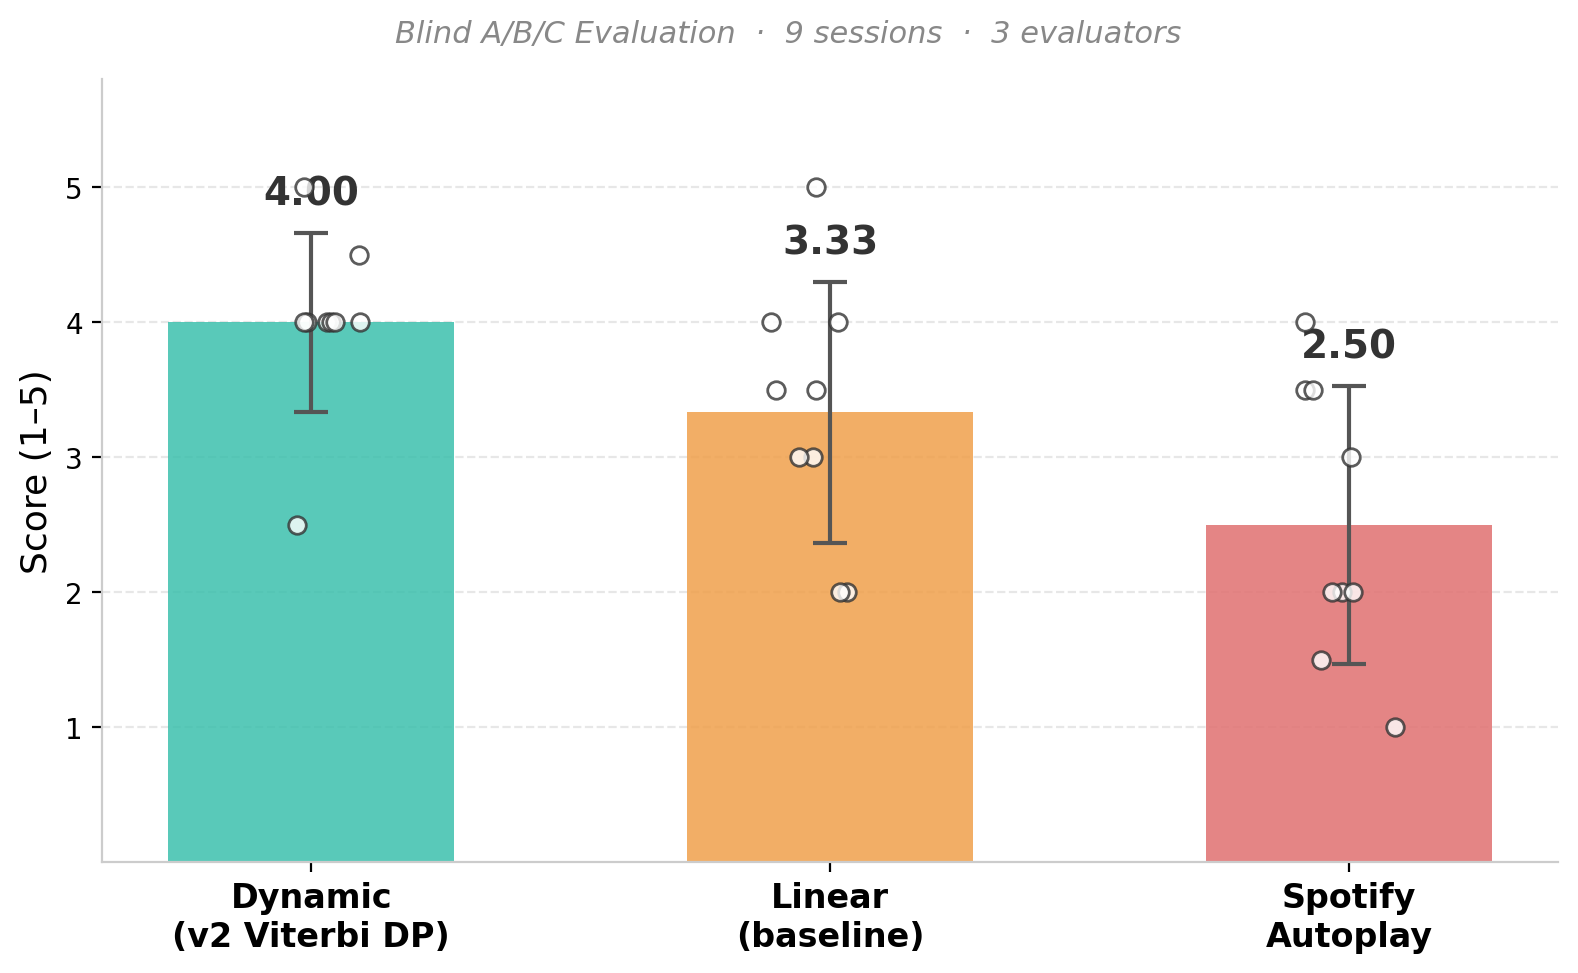
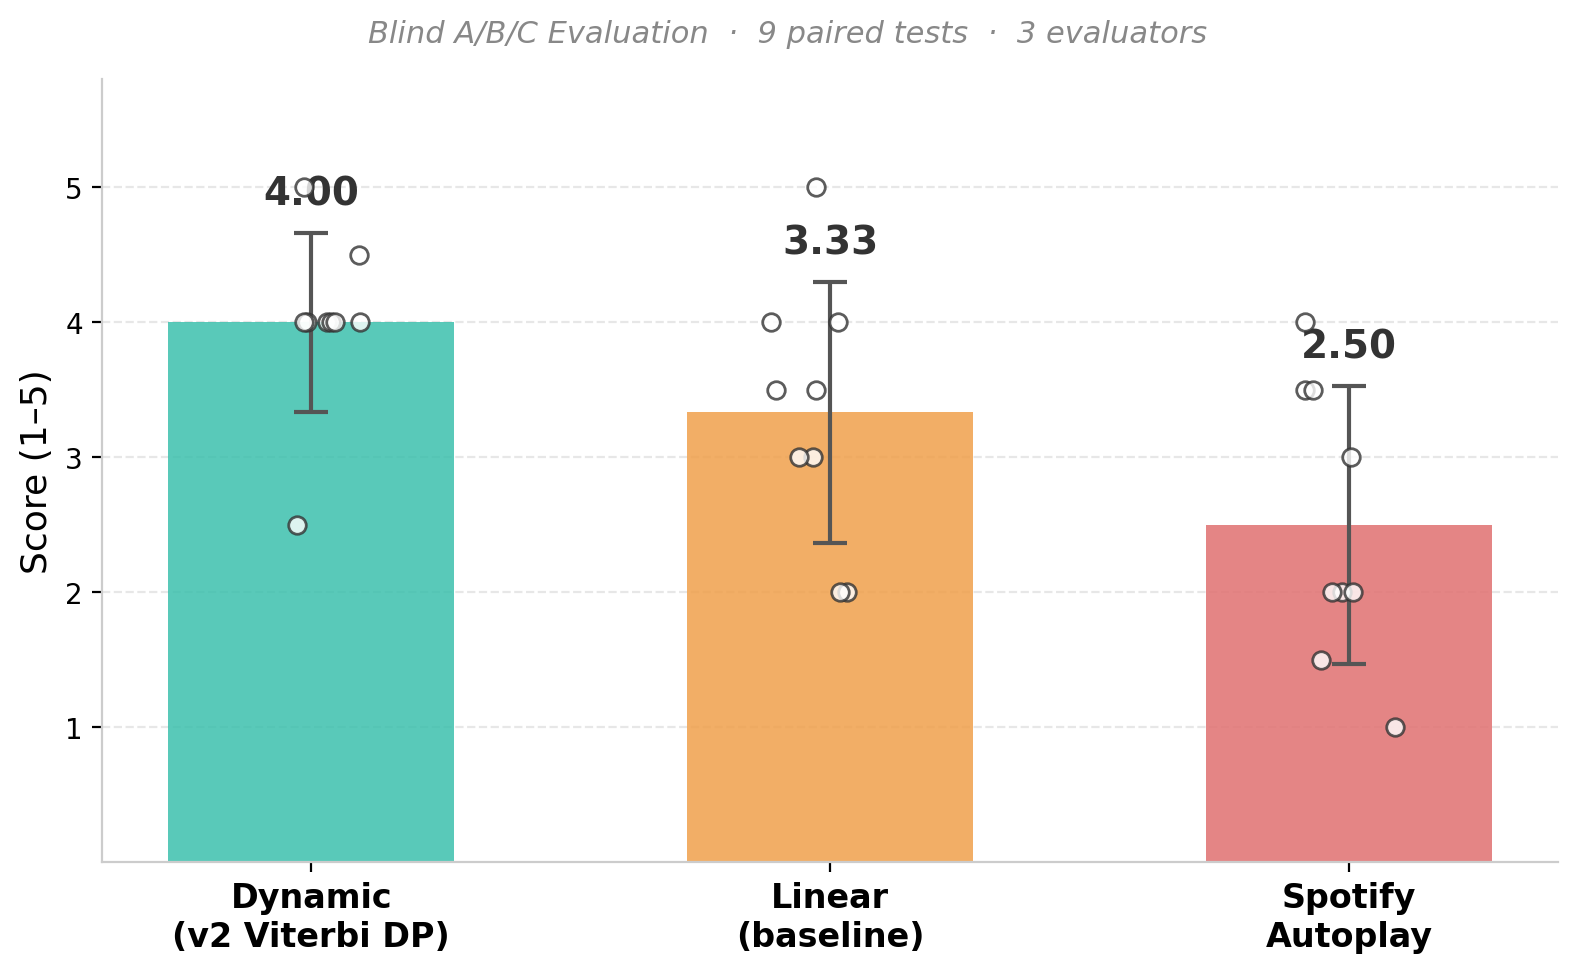
paired comparison: per-test_id analysis with winner stars and difference chart

Changed region(s): [[0.2174, 0.0, 0.4658, 0.0617], [0.4968, 0.0, 0.7763, 0.0617]]

diff --git a/scripts/analyze_eval.py b/scripts/analyze_eval.py
@@ -1,4 +1,7 @@
-"""Analyze A/B/C blind evaluation results: Dynamic vs Linear vs Auto."""
+"""Analyze A/B/C blind evaluation results: Dynamic vs Linear vs Auto.
+
+Paired comparison within each test_id (same evaluator, same transition).
+"""
 
 import matplotlib
 matplotlib.use("Agg")
@@ -6,6 +9,7 @@ import matplotlib.pyplot as plt
 import numpy as np
 import pandas as pd
 from scipy import stats
+from matplotlib.patches import Patch
 
 # ── Load data ──
 df = pd.read_csv("/home/ubuntu/eval_data.csv")
@@ -20,108 +24,167 @@ df["Score"] = pd.to_numeric(df["Score"])
 name_map = {n: f"Evaluator {chr(65+i)}" for i, n in enumerate(sorted(df["Name"].unique()))}
 df["Name"] = df["Name"].map(name_map)
 
-print("=" * 60)
-print("BLIND A/B/C EVALUATION RESULTS")
-print("=" * 60)
-print(f"\nTotal evaluations: {len(df)} ({len(df)//3} test sessions × 3 methods)")
-print(f"Evaluators: {', '.join(df['Name'].unique())}")
-print(f"Emotion transitions tested: {df.groupby(['From','To']).ngroups}")
+OUT = "/home/ubuntu/repos/jsai2026/eval/llm_feature_eval/outputs"
+method_order = ["Dynamic", "Linear", "Auto"]
+colors = {"Dynamic": "#3cc0ad", "Linear": "#f0a04b", "Auto": "#e07070"}
+
+# ── Build paired comparison table ──
+test_ids = sorted(df["test_id"].unique())
+n_tests = len(test_ids)
+
+rows = []
+for tid in test_ids:
+    td = df[df["test_id"] == tid]
+    name = td["Name"].iloc[0]
+    fr = td["From"].iloc[0]
+    to = td["To"].iloc[0]
+    n = int(td["N"].iloc[0])
+    s = {m: td[td["Method"] == m]["Score"].values[0] for m in method_order}
+    # Winner for this test
+    best_score = max(s.values())
+    winners = [m for m, v in s.items() if v == best_score]
+    rows.append({
+        "test_id": tid, "Name": name, "From": fr, "To": to, "N": n,
+        "Dynamic": s["Dynamic"], "Linear": s["Linear"], "Auto": s["Auto"],
+        "Winner": "/".join(winners),
+    })
+paired_df = pd.DataFrame(rows)
+
+print("=" * 70)
+print("PAIRED COMPARISON (within each test_id)")
+print("=" * 70)
+print()
+print(paired_df.to_string(index=False))
 print()
 
+# ── Win counts ──
+print("Winner counts:")
+print("-" * 40)
+for m in method_order:
+    wins = sum(1 for _, r in paired_df.iterrows() if r["Winner"] == m)
+    shared = sum(1 for _, r in paired_df.iterrows() if m in r["Winner"] and r["Winner"] != m)
+    print(f"  {m:8s}: {wins} solo wins, {shared} shared wins")
+
+# ── Rank within each test ──
+print("\nRank distribution (1=best, 3=worst):")
+print("-" * 40)
+rank_counts = {m: {1: 0, 2: 0, 3: 0} for m in method_order}
+for _, r in paired_df.iterrows():
+    scores = [(r[m], m) for m in method_order]
+    scores.sort(key=lambda x: -x[0])
+    prev_score = None
+    prev_rank = 0
+    for i, (sc, meth) in enumerate(scores):
+        if sc != prev_score:
+            rank = i + 1
+        rank_counts[meth][rank] += 1
+        prev_score = sc
+        prev_rank = rank
+
+for m in method_order:
+    r = rank_counts[m]
+    print(f"  {m:8s}: 1st={r[1]}, 2nd={r[2]}, 3rd={r[3]}")
+
 # ── Overall averages ──
-method_stats = df.groupby("Method")["Score"].agg(["mean", "std", "count", "median"])
-method_stats = method_stats.sort_values("mean", ascending=False)
-print("Overall Method Averages (sorted by mean):")
-print("-" * 50)
-for method, row in method_stats.iterrows():
-    print(f"  {method:8s}  mean={row['mean']:.3f}  std={row['std']:.3f}  "
-          f"median={row['median']:.1f}  n={int(row['count'])}")
+print("\nOverall averages:")
+print("-" * 40)
+for m in method_order:
+    vals = paired_df[m].values
+    print(f"  {m:8s}: mean={vals.mean():.3f}, std={vals.std():.3f}, median={np.median(vals):.1f}")
 
-# ── Per evaluator ──
-print("\nPer-Evaluator Breakdown:")
-print("-" * 50)
-pivot_eval = df.pivot_table(values="Score", index="Name", columns="Method", aggfunc="mean")
-print(pivot_eval.round(3).to_string())
-
-# ── Per test (wide format) ──
-print("\nPer-Test Scores:")
-print("-" * 50)
-pivot_test = df.pivot_table(values="Score", index=["test_id", "Name", "From", "To", "N"],
-                            columns="Method", aggfunc="first")
-print(pivot_test.to_string())
-
-# ── Win/tie/lose counts ──
-print("\nHead-to-Head Comparison (Dynamic vs others):")
-print("-" * 50)
-for other in ["Linear", "Auto"]:
-    wins = ties = losses = 0
-    for tid in df["test_id"].unique():
-        d_score = df[(df["test_id"] == tid) & (df["Method"] == "Dynamic")]["Score"].values[0]
-        o_score = df[(df["test_id"] == tid) & (df["Method"] == other)]["Score"].values[0]
-        if d_score > o_score:
-            wins += 1
-        elif d_score == o_score:
-            ties += 1
-        else:
-            losses += 1
-    print(f"  Dynamic vs {other:6s}: {wins}W / {ties}T / {losses}L")
-
-# ── Statistical tests ──
-print("\nStatistical Tests (Wilcoxon signed-rank, paired):")
-print("-" * 50)
-methods = ["Dynamic", "Linear", "Auto"]
-for i in range(len(methods)):
-    for j in range(i + 1, len(methods)):
-        m1, m2 = methods[i], methods[j]
-        scores1, scores2 = [], []
-        for tid in sorted(df["test_id"].unique()):
-            s1 = df[(df["test_id"] == tid) & (df["Method"] == m1)]["Score"].values[0]
-            s2 = df[(df["test_id"] == tid) & (df["Method"] == m2)]["Score"].values[0]
-            scores1.append(s1)
-            scores2.append(s2)
-        diffs = [a - b for a, b in zip(scores1, scores2)]
-        nonzero_diffs = [d for d in diffs if d != 0]
-        if len(nonzero_diffs) >= 2:
-            stat, p = stats.wilcoxon(scores1, scores2, alternative="two-sided")
+# ── Statistical tests (paired) ──
+print("\nStatistical Tests (Wilcoxon signed-rank, paired by test_id):")
+print("-" * 60)
+for i in range(len(method_order)):
+    for j in range(i + 1, len(method_order)):
+        m1, m2 = method_order[i], method_order[j]
+        s1 = paired_df[m1].values
+        s2 = paired_df[m2].values
+        diffs = s1 - s2
+        nonzero = np.sum(diffs != 0)
+        if nonzero >= 2:
+            stat, p = stats.wilcoxon(s1, s2, alternative="two-sided")
             sig = "***" if p < 0.01 else "**" if p < 0.05 else "*" if p < 0.1 else "n.s."
-            print(f"  {m1} vs {m2}: W={stat:.1f}, p={p:.4f} {sig}  (mean diff={np.mean(diffs):+.3f})")
+            print(f"  {m1} vs {m2}: W={stat:.1f}, p={p:.4f} {sig}  "
+                  f"(mean diff={diffs.mean():+.3f}, median diff={np.median(diffs):+.1f})")
         else:
-            print(f"  {m1} vs {m2}: too few non-tied pairs ({len(nonzero_diffs)})")
+            print(f"  {m1} vs {m2}: too few non-tied pairs ({nonzero})")
 
 # ═══════════════════════════════════════════════════════
 # VISUALIZATIONS
 # ═══════════════════════════════════════════════════════
-OUT = "/home/ubuntu/repos/jsai2026/eval/llm_feature_eval/outputs"
 
-colors = {"Dynamic": "#3cc0ad", "Linear": "#f0a04b", "Auto": "#e07070"}
+# ── Chart 1: Per-test grouped bars (primary chart) ──
+fig, ax = plt.subplots(figsize=(12, 5.5))
+fig.patch.set_facecolor("white")
+ax.set_facecolor("white")
 
-# ── Chart 1: Overall bar chart with individual dots ──
+bar_w = 0.25
+x_pos = np.arange(n_tests)
+
+for i, m in enumerate(method_order):
+    offset = (i - 1) * (bar_w + 0.02)
+    vals = paired_df[m].values
+    bars = ax.bar(x_pos + offset, vals, width=bar_w, color=colors[m],
+                  label=m, edgecolor="none", alpha=0.85)
+    for j, v in enumerate(vals):
+        ax.text(x_pos[j] + offset, v + 0.05, f"{v:.1f}",
+                ha="center", va="bottom", fontsize=8, fontweight="bold", color="#555555")
+
+# Mark winner(s) with a star
+for j, (_, r) in enumerate(paired_df.iterrows()):
+    best = max(r["Dynamic"], r["Linear"], r["Auto"])
+    for i, m in enumerate(method_order):
+        if r[m] == best:
+            offset = (i - 1) * (bar_w + 0.02)
+            ax.text(x_pos[j] + offset, r[m] + 0.25, "★",
+                    ha="center", va="bottom", fontsize=10, color="#d4a017")
+
+# X labels
+xlabels = [f"T{r['test_id']}\n{r['From']}→{r['To']}\n(N={r['N']})" for _, r in paired_df.iterrows()]
+ax.set_xticks(x_pos)
+ax.set_xticklabels(xlabels, fontsize=8, ha="center")
+ax.set_ylabel("Score (1–5)", fontsize=12)
+ax.set_ylim(0, 5.9)
+ax.set_yticks([1, 2, 3, 4, 5])
+ax.legend(fontsize=10, loc="upper right", frameon=True, edgecolor="#dddddd")
+ax.spines["top"].set_visible(False)
+ax.spines["right"].set_visible(False)
+ax.spines["left"].set_color("#cccccc")
+ax.spines["bottom"].set_color("#cccccc")
+ax.yaxis.grid(True, alpha=0.3, linestyle="--")
+ax.set_title("Paired Comparison: Same Evaluator × Same Transition  (★ = winner)",
+             fontsize=13, fontweight="bold", pad=12)
+plt.tight_layout()
+fig.savefig(f"{OUT}/eval_per_test.png", dpi=200, bbox_inches="tight", facecolor="white")
+print(f"\nSaved: {OUT}/eval_per_test.png")
+plt.close()
+
+# ── Chart 2: Overall bar chart with individual dots ──
 fig, ax = plt.subplots(figsize=(8, 5))
 fig.patch.set_facecolor("white")
 ax.set_facecolor("white")
 
-method_order = ["Dynamic", "Linear", "Auto"]
-means = [df[df["Method"] == m]["Score"].mean() for m in method_order]
-stds = [df[df["Method"] == m]["Score"].std() for m in method_order]
+means = [paired_df[m].mean() for m in method_order]
+stds_vals = [paired_df[m].std() for m in method_order]
 x_pos = np.arange(len(method_order))
 
 bars = ax.bar(x_pos, means, width=0.55, color=[colors[m] for m in method_order],
               edgecolor="none", alpha=0.85, zorder=2)
-ax.errorbar(x_pos, means, yerr=stds, fmt="none", ecolor="#555555",
+ax.errorbar(x_pos, means, yerr=stds_vals, fmt="none", ecolor="#555555",
             capsize=6, capthick=1.5, linewidth=1.5, zorder=3)
 
-# Scatter individual scores with jitter
+# Individual dots
 np.random.seed(42)
 for i, m in enumerate(method_order):
-    scores = df[df["Method"] == m]["Score"].values
+    scores = paired_df[m].values
     jitter = np.random.normal(0, 0.06, size=len(scores))
     ax.scatter(np.full_like(scores, i, dtype=float) + jitter, scores,
                color="white", edgecolors="#333333", linewidth=1, s=40,
                zorder=4, alpha=0.8)
 
-# Labels
 for i, (m, mean_val) in enumerate(zip(method_order, means)):
-    ax.text(i, mean_val + stds[i] + 0.15, f"{mean_val:.2f}",
+    ax.text(i, mean_val + stds_vals[i] + 0.15, f"{mean_val:.2f}",
             ha="center", va="bottom", fontsize=14, fontweight="bold", color="#333333")
 
 ax.set_xticks(x_pos)
@@ -136,14 +199,14 @@ ax.spines["left"].set_color("#cccccc")
 ax.spines["bottom"].set_color("#cccccc")
 ax.yaxis.grid(True, alpha=0.3, linestyle="--")
 fig.text(0.5, 0.97,
-         f"Blind A/B/C Evaluation  ·  {len(df)//3} sessions  ·  {len(df['Name'].unique())} evaluators",
+         f"Blind A/B/C Evaluation  ·  {n_tests} paired tests  ·  {len(df['Name'].unique())} evaluators",
          ha="center", va="top", fontsize=11, color="#888888", style="italic")
 plt.tight_layout(rect=[0, 0, 1, 0.94])
 fig.savefig(f"{OUT}/eval_method_comparison.png", dpi=200, bbox_inches="tight", facecolor="white")
-print(f"\nSaved: {OUT}/eval_method_comparison.png")
+print(f"Saved: {OUT}/eval_method_comparison.png")
 plt.close()
 
-# ── Chart 2: Per-evaluator grouped bar chart ──
+# ── Chart 3: Per-evaluator grouped bars ──
 fig, ax = plt.subplots(figsize=(9, 5))
 fig.patch.set_facecolor("white")
 ax.set_facecolor("white")
@@ -156,8 +219,8 @@ x_pos = np.arange(n_eval)
 for i, m in enumerate(method_order):
     vals = [df[(df["Name"] == e) & (df["Method"] == m)]["Score"].mean() for e in evaluators]
     offset = (i - 1) * (bar_w + 0.03)
-    bars = ax.bar(x_pos + offset, vals, width=bar_w, color=colors[m],
-                  label=m, edgecolor="none", alpha=0.85)
+    ax.bar(x_pos + offset, vals, width=bar_w, color=colors[m],
+           label=m, edgecolor="none", alpha=0.85)
     for j, v in enumerate(vals):
         ax.text(x_pos[j] + offset, v + 0.08, f"{v:.1f}",
                 ha="center", va="bottom", fontsize=10, fontweight="bold", color="#555555")
@@ -179,51 +242,49 @@ fig.savefig(f"{OUT}/eval_per_evaluator.png", dpi=200, bbox_inches="tight", facec
 print(f"Saved: {OUT}/eval_per_evaluator.png")
 plt.close()
 
-# ── Chart 3: Per-test heatmap-style comparison ──
-fig, ax = plt.subplots(figsize=(10, 5.5))
+# ── Chart 4: Paired difference chart (Dynamic - others) ──
+fig, axes = plt.subplots(1, 2, figsize=(10, 4.5), sharey=True)
 fig.patch.set_facecolor("white")
-ax.set_facecolor("white")
 
-test_labels = []
-scores_matrix = []
-for tid in sorted(df["test_id"].unique()):
-    row_data = df[df["test_id"] == tid]
-    name = row_data["Name"].iloc[0]
-    fr = row_data["From"].iloc[0]
-    to = row_data["To"].iloc[0]
-    n = int(row_data["N"].iloc[0])
-    test_labels.append(f"T{tid}\n{fr}→{to} (N={n})")
-    row_scores = []
-    for m in method_order:
-        s = row_data[row_data["Method"] == m]["Score"].values[0]
-        row_scores.append(s)
-    scores_matrix.append(row_scores)
+for ax_i, (other, ax) in enumerate(zip(["Linear", "Auto"], axes)):
+    ax.set_facecolor("white")
+    diffs = paired_df["Dynamic"].values - paired_df[other].values
+    x = np.arange(n_tests)
 
-scores_arr = np.array(scores_matrix)
-n_tests = len(test_labels)
-bar_w = 0.25
-x_pos = np.arange(n_tests)
+    bar_colors = ["#3cc0ad" if d > 0 else "#e07070" if d < 0 else "#cccccc" for d in diffs]
+    ax.bar(x, diffs, width=0.6, color=bar_colors, edgecolor="none", alpha=0.85)
+    ax.axhline(0, color="#888888", linewidth=0.8, linestyle="-")
 
-for i, m in enumerate(method_order):
-    offset = (i - 1) * (bar_w + 0.02)
-    ax.bar(x_pos + offset, scores_arr[:, i], width=bar_w, color=colors[m],
-           label=m, edgecolor="none", alpha=0.85)
+    # Mean diff line
+    mean_diff = diffs.mean()
+    ax.axhline(mean_diff, color="#d35400", linewidth=1.5, linestyle="--", alpha=0.8)
+    ax.text(n_tests - 0.5, mean_diff + 0.1, f"mean={mean_diff:+.2f}",
+            ha="right", va="bottom", fontsize=9, color="#d35400", fontweight="bold")
 
-ax.set_xticks(x_pos)
-ax.set_xticklabels(test_labels, fontsize=8, ha="center")
-ax.set_ylabel("Score (1–5)", fontsize=12)
-ax.set_ylim(0, 5.8)
-ax.set_yticks([1, 2, 3, 4, 5])
-ax.legend(fontsize=10, loc="upper right", frameon=True, edgecolor="#dddddd")
-ax.spines["top"].set_visible(False)
-ax.spines["right"].set_visible(False)
-ax.spines["left"].set_color("#cccccc")
-ax.spines["bottom"].set_color("#cccccc")
-ax.yaxis.grid(True, alpha=0.3, linestyle="--")
-ax.set_title("Per-Test Score Comparison", fontsize=14, fontweight="bold", pad=12)
+    xlabels = [f"T{r['test_id']}" for _, r in paired_df.iterrows()]
+    ax.set_xticks(x)
+    ax.set_xticklabels(xlabels, fontsize=9)
+    ax.set_title(f"Dynamic − {other}", fontsize=13, fontweight="bold")
+    ax.set_ylabel("Score Difference" if ax_i == 0 else "", fontsize=11)
+    ax.set_ylim(-2.5, 3.0)
+    ax.spines["top"].set_visible(False)
+    ax.spines["right"].set_visible(False)
+    ax.spines["left"].set_color("#cccccc")
+    ax.spines["bottom"].set_color("#cccccc")
+    ax.yaxis.grid(True, alpha=0.3, linestyle="--")
+
+legend_elements = [
+    Patch(facecolor="#3cc0ad", label="Dynamic wins"),
+    Patch(facecolor="#e07070", label="Dynamic loses"),
+    Patch(facecolor="#cccccc", label="Tie"),
+]
+axes[1].legend(handles=legend_elements, fontsize=9, loc="lower right",
+               frameon=True, edgecolor="#dddddd")
+
+fig.suptitle("Paired Differences (Dynamic vs each baseline)", fontsize=13, fontweight="bold", y=1.01)
 plt.tight_layout()
-fig.savefig(f"{OUT}/eval_per_test.png", dpi=200, bbox_inches="tight", facecolor="white")
-print(f"Saved: {OUT}/eval_per_test.png")
+fig.savefig(f"{OUT}/eval_paired_diff.png", dpi=200, bbox_inches="tight", facecolor="white")
+print(f"Saved: {OUT}/eval_paired_diff.png")
 plt.close()
 
 print("\nDone.")
